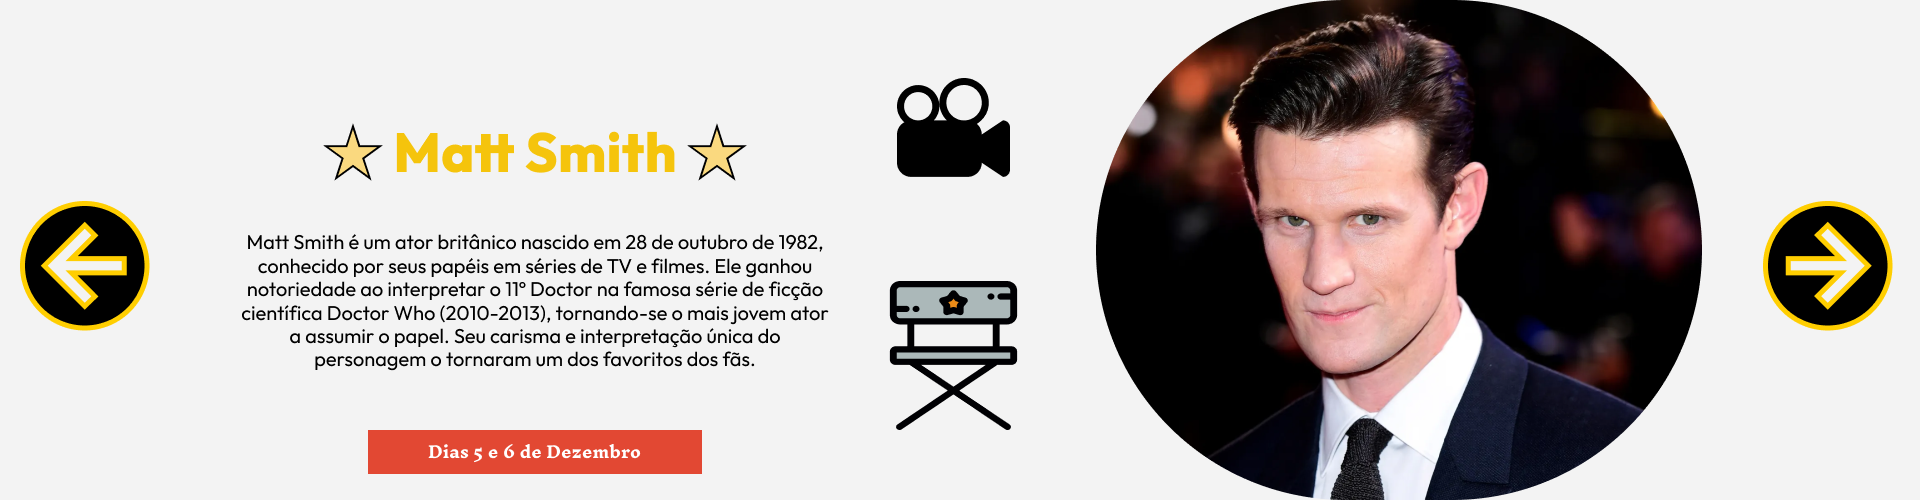
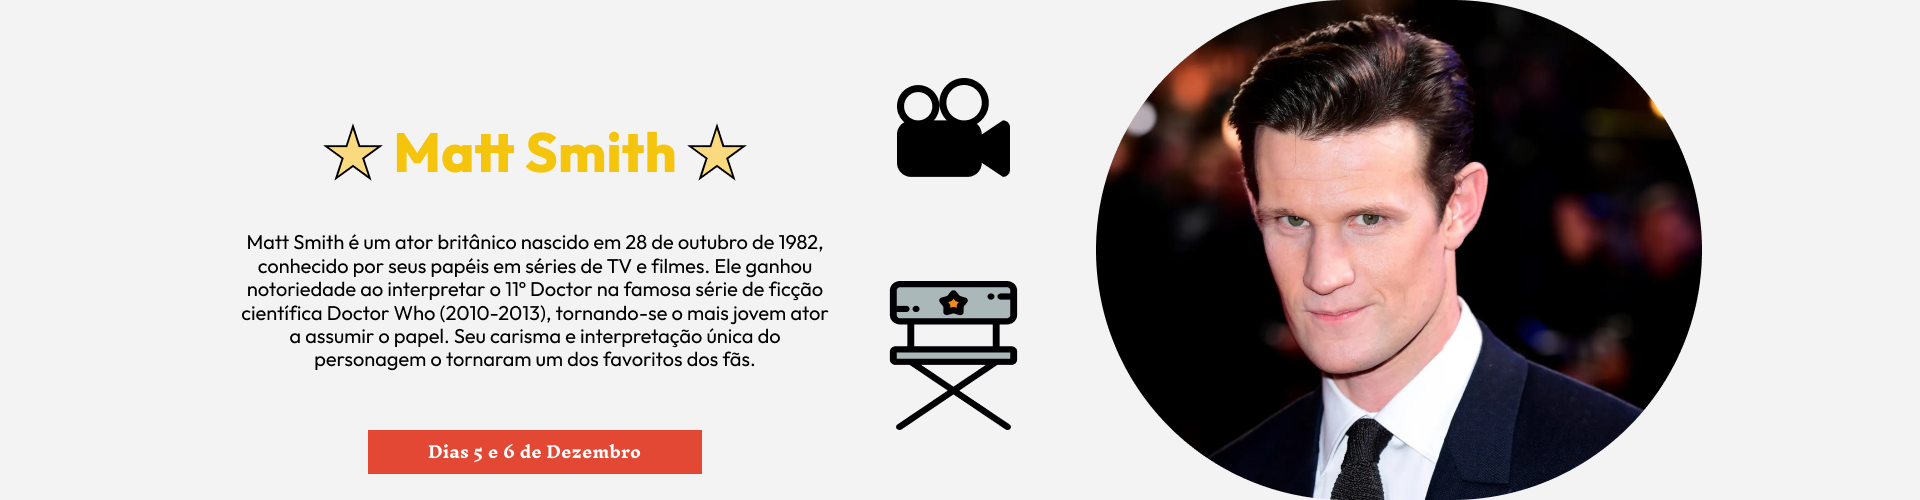
carrossel

Changed region(s): [[0.0, 0.39, 0.0938, 0.66], [0.9062, 0.39, 1.0, 0.66]]

diff --git a/ccxp-guide/src/index.css b/ccxp-guide/src/index.css
@@ -78,6 +78,7 @@ body.no-background {
   margin: 0 auto; /* Garante que a margem seja automática para centralizar horizontalmente */
   color: white;
   width: 70%; /* Ajuste conforme necessário */
+  margin-top: 30px; /* Adjust this value as needed */
 }
 
 
@@ -88,24 +89,27 @@ body.no-background {
 }
 
 .video-container {
-  max-width: 50%; /* Mantém a largura máxima do vídeo */
-  display: flex; 
-  flex-direction: column;
-  align-items: center; /* Centraliza horizontalmente */
-  justify-content: center; /* Centraliza verticalmente */
-  margin: 20px auto; /* Centraliza a margem vertical */
-  width: 100%; /* Garante que o contêiner ocupe toda a largura disponível */
+  display: flex;
+  align-items: center;
+  justify-content: center;
+  width: 80vw; /* Ajusta para ocupar 80% da largura da viewport */
+  max-width: 1200px; /* Define uma largura máxima */
+  margin: 20px auto;
+  padding-top: 56.25%; /* Proporção 16:9 */
+  position: relative; /* Necessário para posicionamento absoluto do vídeo */
   overflow: hidden;
-  text-align: center; /* Centraliza o texto, se houver */
+  border-radius: 8px;
+  box-shadow: 0 4px 10px rgba(0, 0, 0, 0.2);
+  background-color: black; /* Adicione um fundo para verificar o contêiner */
 }
 
 .video-container video {
-  width: 100%; /* O vídeo ocupa 100% da largura do contêiner */
-  max-width: 100%; /* Garante que o vídeo não ultrapasse o tamanho máximo */
-  border-radius: 8px;
-  box-shadow: 0 4px 10px rgba(0, 0, 0, 0.2);
+  position: absolute;
+  top: 0;
+  left: 0;
+  width: 100%;
+  height: 100%;
 }
-
 
 /* HEADER */
 .header {
@@ -114,10 +118,13 @@ body.no-background {
   align-items: center;
   width: 100%;
   padding: 20px;
+  padding-bottom: 50px;
   position: fixed;
   top: 0;
   z-index: 1000;
 }
+
+
 
 .nav-list {
   list-style: none;
@@ -128,16 +135,18 @@ body.no-background {
 }
 
 
+
 .logo img {
   height: 76px;
   width: 70px;
+  min-width: 20%;
+  min-height: 20%;
 }
 
 .nav {
   display: flex;
-  flex-direction: row; /* Ajuste para navegação em linha horizontal */
-  justify-content: flex-end;
-  gap: 20px; /* Espaço entre itens de navegação */
+  justify-content: center;
+
 }
 
 .nav-list {
@@ -146,15 +155,16 @@ body.no-background {
   flex-direction: row;
   padding: 0;
   margin: 0;
+  gap: 15px; /* Espaço entre itens de navegação */
+   flex-wrap: nowrap; /* Evita quebra de linha */
 }
 
 .nav-list li {
-  margin: 0 15px;
-  margin-right: 20px;
+  
 }
 
 .nav-list .nav-link {
-  font-size: 18px;
+  font-size: 15px;
   color: rgba(255, 255, 255, 0.6);
   text-decoration: none;
 }
@@ -189,7 +199,8 @@ body.no-background {
 }
 
 .footer img {
-  max-width: 20px;
+  width: 10%;
+  height: 10%;
   text-align: center;
 }
 
@@ -214,7 +225,6 @@ body.no-background {
 /* SECTION */
 .section-container {
   background-color: rgba(0, 0, 0, 0.9);
-  padding: 20px;
   display: flex;
   justify-content: space-between;
   flex-direction: column;
@@ -222,13 +232,13 @@ body.no-background {
   border-top: 10px solid #5B28E5;
   border-bottom: 10px solid #5B28E5;
   margin: 20px auto;
-  width: 90vw;
+  width: 100vw;
   max-width: 1200px;
 }
 
 .section-left, .section-right {
   flex: 1;
-  margin: 0 10px;
+  margin: 0px;
 }
 
 .section-content {
@@ -282,17 +292,21 @@ body.no-background {
   text-align: center;
   align-items: center;
   width: 100%;
-  max-width: 120px; /* Limite de largura máxima */
+  max-width: 100vw; /* Limite de largura máxima */
   margin: 20px auto;
   overflow: hidden;
+}
+
+.carouselccxp-text h2{
+  color: #FFCE00;
 }
 
 .carouselccxp-container img {
   border-radius: 10px;
   box-shadow: 0px 4px 10px rgba(0, 0, 0, 0.6);
   padding: 10px;
-  width: 8%;
-  height: 40%;
+  width: 80%;
+  height: 80%;
   align-items: center;
 }
 
@@ -302,38 +316,82 @@ body.no-background {
   margin-bottom: 50px;
 }
 
-.carouselatracoes-container img {
-  max-width: 100%;
-  height: auto;
-  border-radius: 10px;
-  padding: 10px;
-}
 
 .carouselatracoes-container {
-  padding: 50px;
-  position: relative;
-  width: 100%;
-  max-width: 1200px; /* Limite de largura máxima */
-  margin: 20px auto;
-  overflow: hidden;
+  position: relative; /* Permite posicionar os botões em relação ao contêiner */
+  width: 100vw; /* Faz o carrossel ocupar toda a largura da tela */
+  height: 100vh; /* Faz o carrossel ocupar toda a altura da tela */
+  overflow: hidden; /* Impede rolagem indesejada */
 }
 
-.carouselatracoes-button {
-  position: absolute;
-  top: 50%;
-  transform: translateY(-50%);
-  z-index: 10;
-  background-color: transparent;
+.carouselatracoes-slider {
+  width: 100%; /* Faz com que o carrossel ocupe 100% da largura do contêiner pai */
+  height: 100%; /* Faz com que o carrossel ocupe 100% da altura do contêiner pai */
+  display: flex; /* Exibe os itens em linha */
+  align-items: center; /* Centraliza os itens verticalmente */
+  overflow: hidden; /* Impede a rolagem indesejada */
 }
+
+.carouselatracoes-slider .slick-slide {
+  display: flex; /* Permite centralizar o conteúdo de cada slide */
+  justify-content: center; /* Centraliza o conteúdo horizontalmente */
+  align-items: center; /* Centraliza o conteúdo verticalmente */
+  height: 100%; /* Faz cada slide ocupar a altura total do carrossel */
+}
+
+.carouselatracoes-slider img {
+  width: 100%; /* Ajusta as imagens para ocupar 100% da largura do slide */
+  height: auto; /* Mantém a proporção da imagem */
+  border-radius: 10px; /* Adiciona borda arredondada, se desejado */
+  box-shadow: 0 4px 10px rgba(0, 0, 0, 0.6); /* Adiciona sombra à imagem */
+}
+
+/* Estilos para o controle de indicadores, se houver */
+.carouselatracoes-slider .slick-dots {
+  bottom: 20px; /* Posição dos indicadores */
+}
+
+.carouselatracoes-slider .slick-dots li button:before {
+  font-size: 12px; /* Tamanho dos indicadores */
+  color: rgba(255, 255, 255, 0.5); /* Cor dos indicadores inativos */
+}
+
+.carouselatracoes-slider .slick-dots li.slick-active button:before {
+  color: #fff; /* Cor do indicador ativo */
+}
+
+/* Estilo para transições suaves */
+.carouselatracoes-slider .slick-slide {
+  transition: transform 0.5s ease; /* Transição suave ao mudar de slide */
+}
+.carouselatracoes-button {
+  position: absolute; /* Permite posicionar os botões de forma absoluta */
+  top: 50%; /* Centraliza verticalmente */
+  transform: translateY(-50%); /* Ajusta a centralização */
+  width: 50px; /* Ajuste de largura */
+  height: 50px; /* Ajuste de altura */
+  border: none; /* Remove borda padrão do botão */
+  background-color: transparent; /* Fundo transparente */
+  cursor: pointer; /* Altera o cursor para indicar interatividade */
+  z-index: 10; /* Garante que os botões estejam acima do carrossel */
+}
+
 
 .carouselatracoes-prev-button {
-  left: 4%;
-  height: 100px;
+  background-image: url('./media/svg/vectoresq.svg'); /* Caminho para a imagem de seta esquerda */
+  left: 10px; /* Posiciona o botão à esquerda */
+  background-size: contain;
+  background-repeat: no-repeat;
+  background-position: center;
+
 }
 
 .carouselatracoes-next-button {
-  right: 4%;
-  height: 100px;
+  background-image: url('./media/svg/vectordir.svg'); /* Caminho para a imagem de seta direita */
+  right: 10px; /* Posiciona o botão à direita */
+  background-size: contain;
+  background-repeat: no-repeat;
+  background-position: center;
 }
 
 @media (max-width: 768px) {
@@ -345,12 +403,26 @@ body.no-background {
   }
 
   .nav-list {
-    flex-direction: column;
     align-items: center;
   }
 
+
+  .carouselccxp-container{
+    width: 95vw; /* Ajusta a largura do carrossel */
+    max-width: 1200px; /* Define um limite de largura máxima */
+    margin: 30px auto; /* Centraliza e adiciona espaço vertical */
+    padding: 20px; /* Reduz um pouco o padding */
+  }
+
+  .carouselccxp-container img{
+    width: 90%; /* Aumenta a largura das imagens no carrossel */
+    height: auto; /* Ajusta a altura automaticamente */
+    border-radius: 10px;
+    margin-bottom: 10px; /* Reduz a margem entre o carrossel e SVGs */
+  }
+
   .section-container,
-  .carouselccxp-container,
+  
   .video-container {
     padding: 100px;
     width: 90vw;
@@ -379,16 +451,6 @@ body {
   padding: 20px;
 }
 
-.header {
-  display: flex;
-  justify-content: center; /* Centraliza horizontalmente */
-  align-items: center;
-  width: 100%;
-  padding: 20px;
-  position: fixed;
-  top: 0;
-  z-index: 1000;
-}
 
 .nav {
   display: flex;
@@ -397,10 +459,3 @@ body {
   gap: 20px; /* Espaço entre itens de navegação */
 }
 
-.nav-list {
-  list-style: none;
-  display: flex;
-  flex-direction: row;
-  padding: 0;
-  margin: 0 auto; /* Centraliza a lista de navegação */
-}

diff --git a/ccxp-guide/src/components/CarrosselAtracoes.jsx b/ccxp-guide/src/components/CarrosselAtracoes.jsx
@@ -20,9 +20,13 @@ function CarrosselAtracoes() {
   };
 
   return (
-    <div className="carouselatracoes-container">
-      <Slider ref={sliderRef} {...settings}>
-        <div>
+      <div className="carouselatracoes-container">
+  <button
+    className="carouselatracoes-button carouselatracoes-prev-button"
+    onClick={() => sliderRef.current.slickPrev()}
+  />
+  <Slider className="carouselatracoes-slider" ref={sliderRef} {...settings}>
+  <div>
           <img src={Image1} alt="Imagem 1" />
         </div>
         <div>
@@ -31,22 +35,12 @@ function CarrosselAtracoes() {
         <div>
           <img src={Image3} alt="Imagem 3" />
         </div>
-      </Slider>
-
-      {/* Botões personalizados */}
-      <button
-        className="carouselatracoes-button carouselatracoes-prev-button"
-        onClick={() => sliderRef.current.slickPrev()}
-      >
-        Anterior
-      </button>
-      <button
-        className="carouselatracoes-button carouselatracoes-next-button"
-        onClick={() => sliderRef.current.slickNext()}
-      >
-        Próximo
-      </button>
-    </div>
+  </Slider>
+  <button
+    className="carouselatracoes-button carouselatracoes-next-button"
+    onClick={() => sliderRef.current.slickNext()}
+  />
+</div>
   );
 }
 
